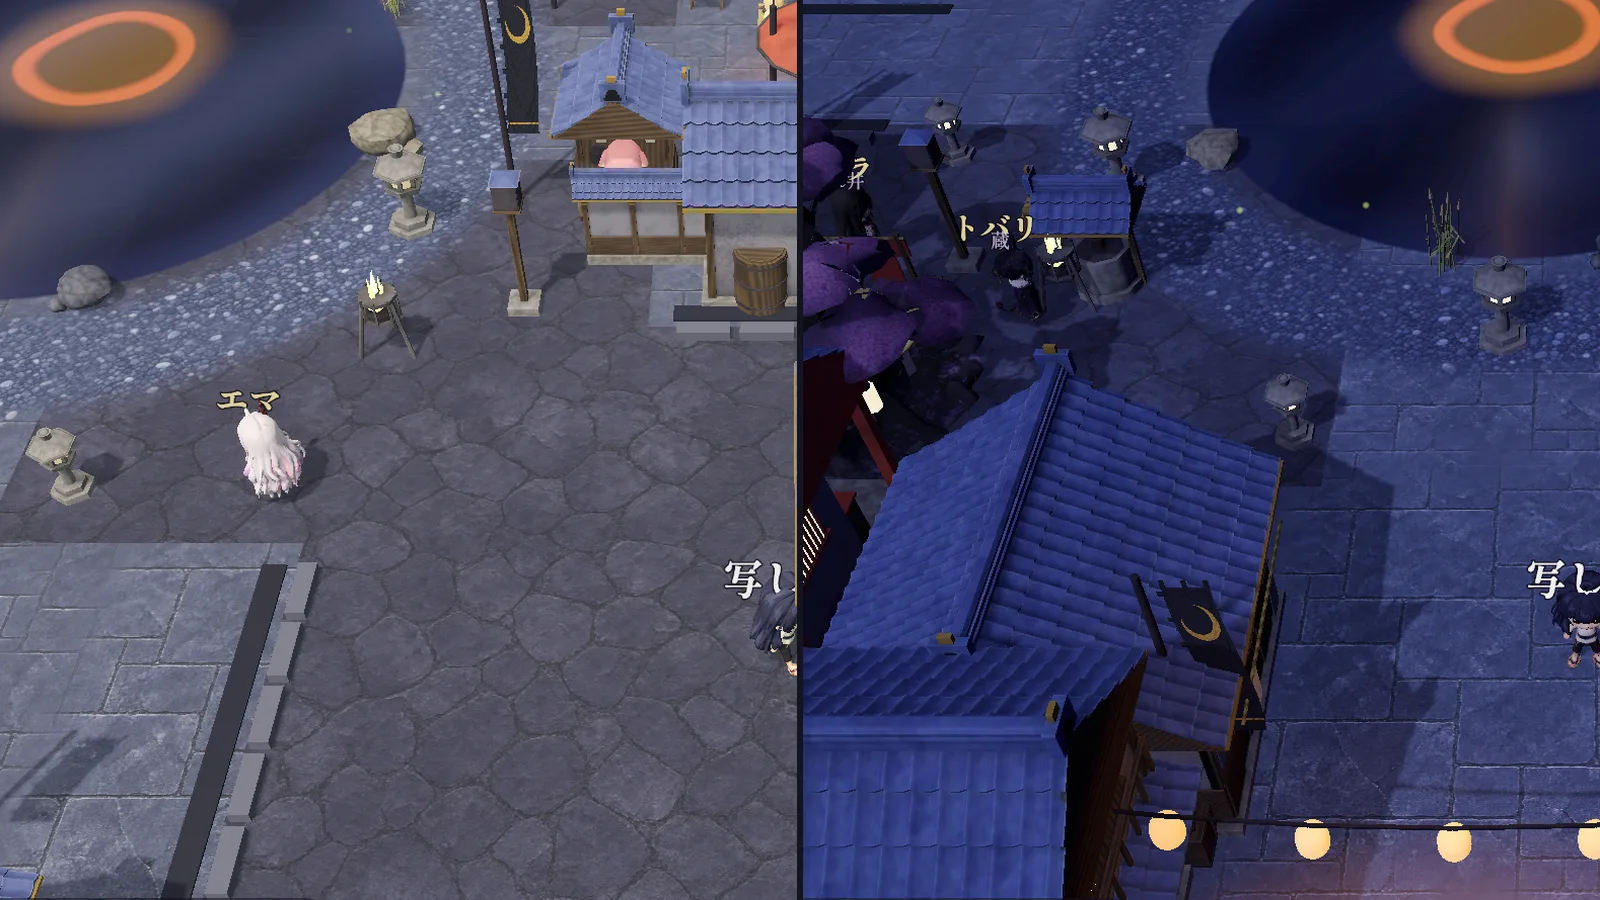
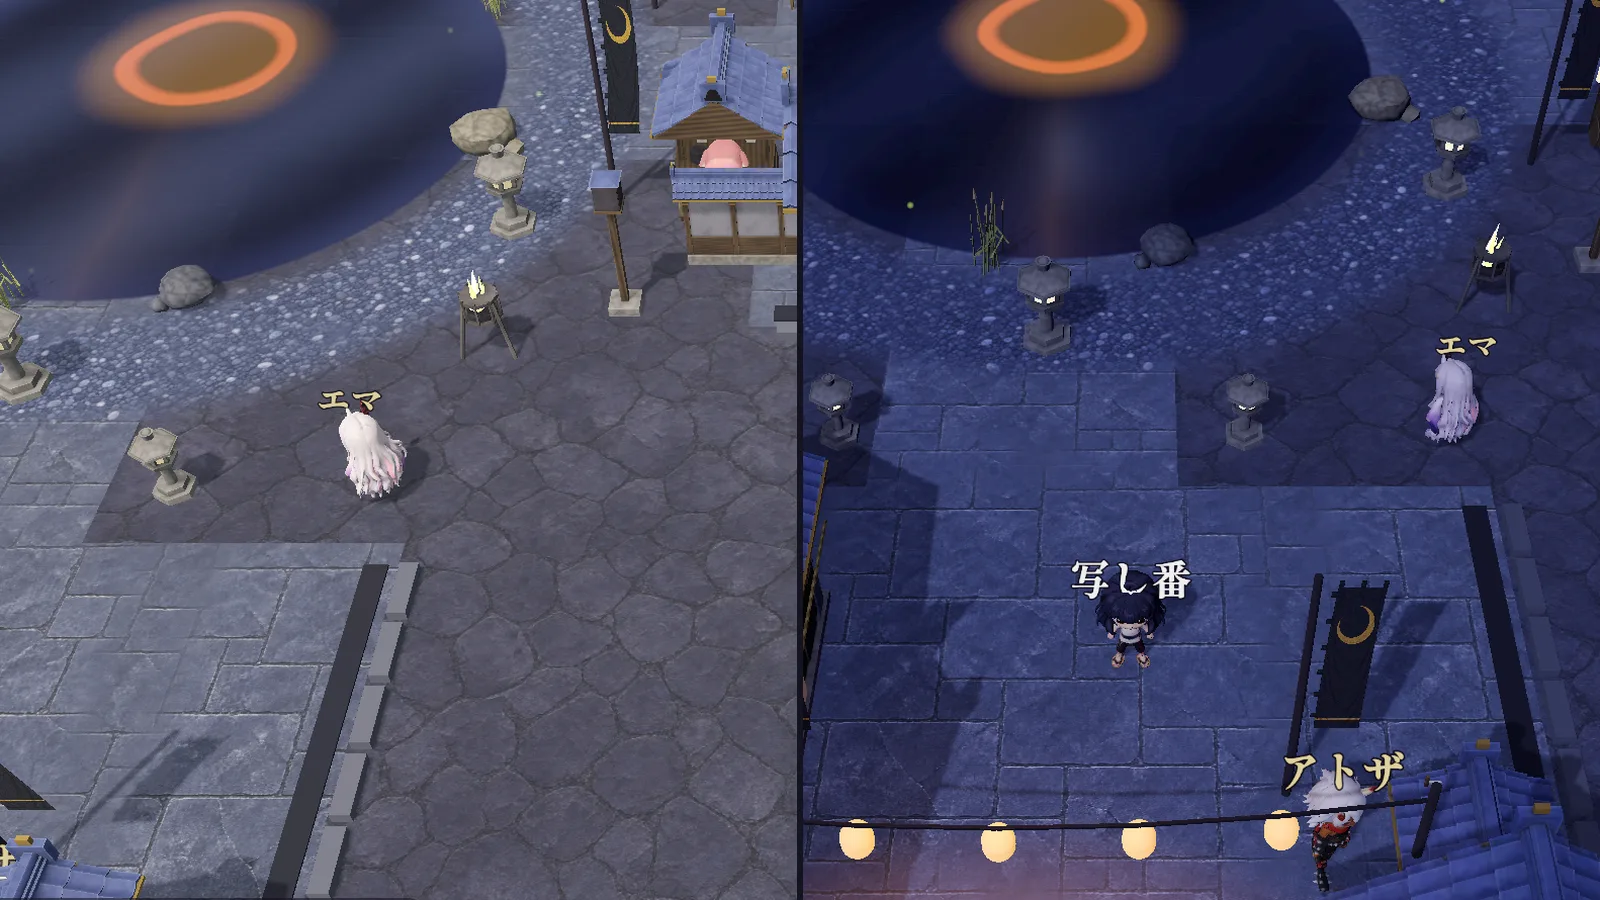
luna-occulta-mmo: Why節の昼夜の写し=名札「写し番」が右端で切れていたのを組み直し（昼cx800/夜cx1350・compose_daynight.py新設・未デプロイ）

diff --git a/tools/luna-occulta-mmo/compose_daynight.py b/tools/luna-occulta-mmo/compose_daynight.py
@@ -1,0 +1,19 @@
+"""Why節の「同じ里の昼と夜」（2枚並置）を組む。写しのトリミング/並置のみ（生成画への外科ではない）。
+使い方: python3 tools/luna-occulta-mmo/compose_daynight.py <shots_dir> [昼cx,夜cx]
+  <shots_dir>/plaza_0.30.png（昼）と plaza_0.80.png（夜）＝2560x1200の検分レーン写し。
+  cx＝各帯の切り出し中心x（原画ピクセル）。既定 800,1350＝名札（写し番/エマ/アトザ）が端で切れない位置（2026-09-06）。
+  上下のHUD帯（場所名/チャット欄）は TOP/BOTTOM で避ける。"""
+import sys, pathlib, subprocess
+from PIL import Image
+S = pathlib.Path(sys.argv[1]); A = 'public/luna-occulta-mmo-assets/'
+CXS = [int(v) for v in (sys.argv[2] if len(sys.argv) > 2 else '800,1350').split(',')]
+TOP, BOTTOM = 120, 190; W, H = 1600, 900; G = 6; pw = (W - G) // 2
+out = Image.new('RGB', (W, H), '#131320')
+for i, t in enumerate(['0.30', '0.80']):
+    im = Image.open(S / f'plaza_{t}.png').convert('RGB'); w, h = im.size
+    ch = h - TOP - BOTTOM; cw = int(ch * pw / H); x0 = min(max(CXS[i] - cw // 2, 0), w - cw)
+    out.paste(im.crop((x0, TOP, x0 + cw, TOP + ch)).resize((pw, H), Image.LANCZOS), (i * (pw + G), 0))
+    print(t, 'crop x0=', x0, 'cw=', cw)
+p = S / 'pillar_daynight.png'; out.save(p)
+subprocess.run(['cwebp', '-quiet', '-q', '82', str(p), '-o', A + 'pillar_daynight.webp'], check=True)
+print('pillar_daynight.webp', pathlib.Path(A + 'pillar_daynight.webp').stat().st_size // 1024, 'KB')
